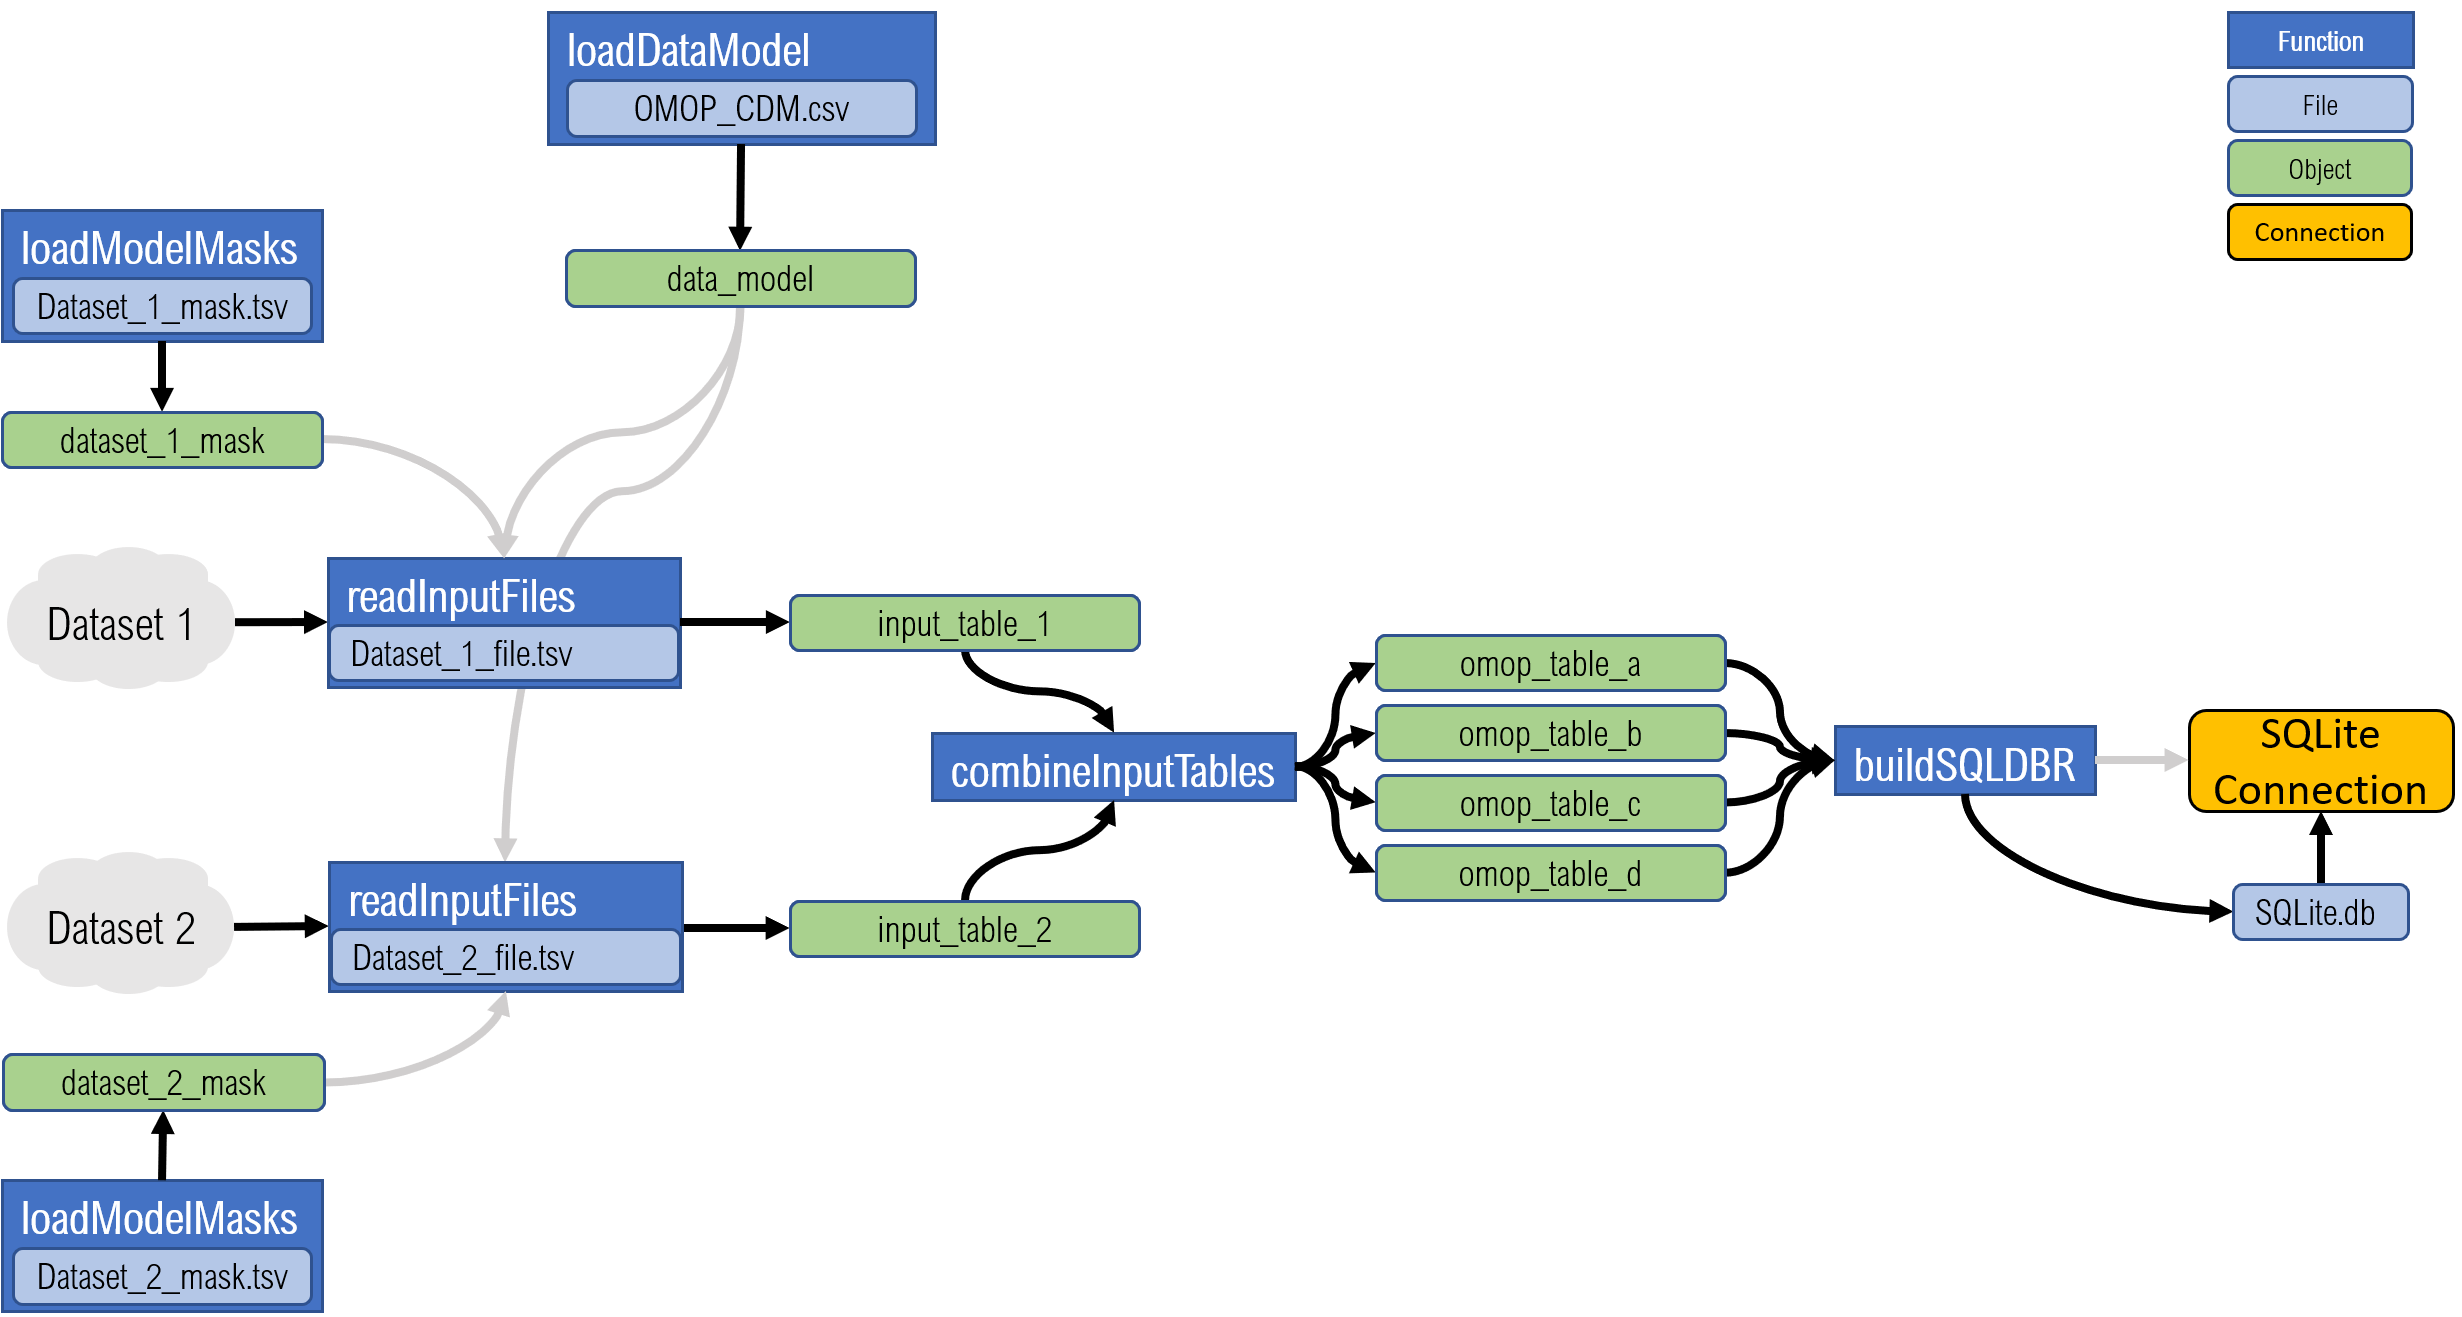
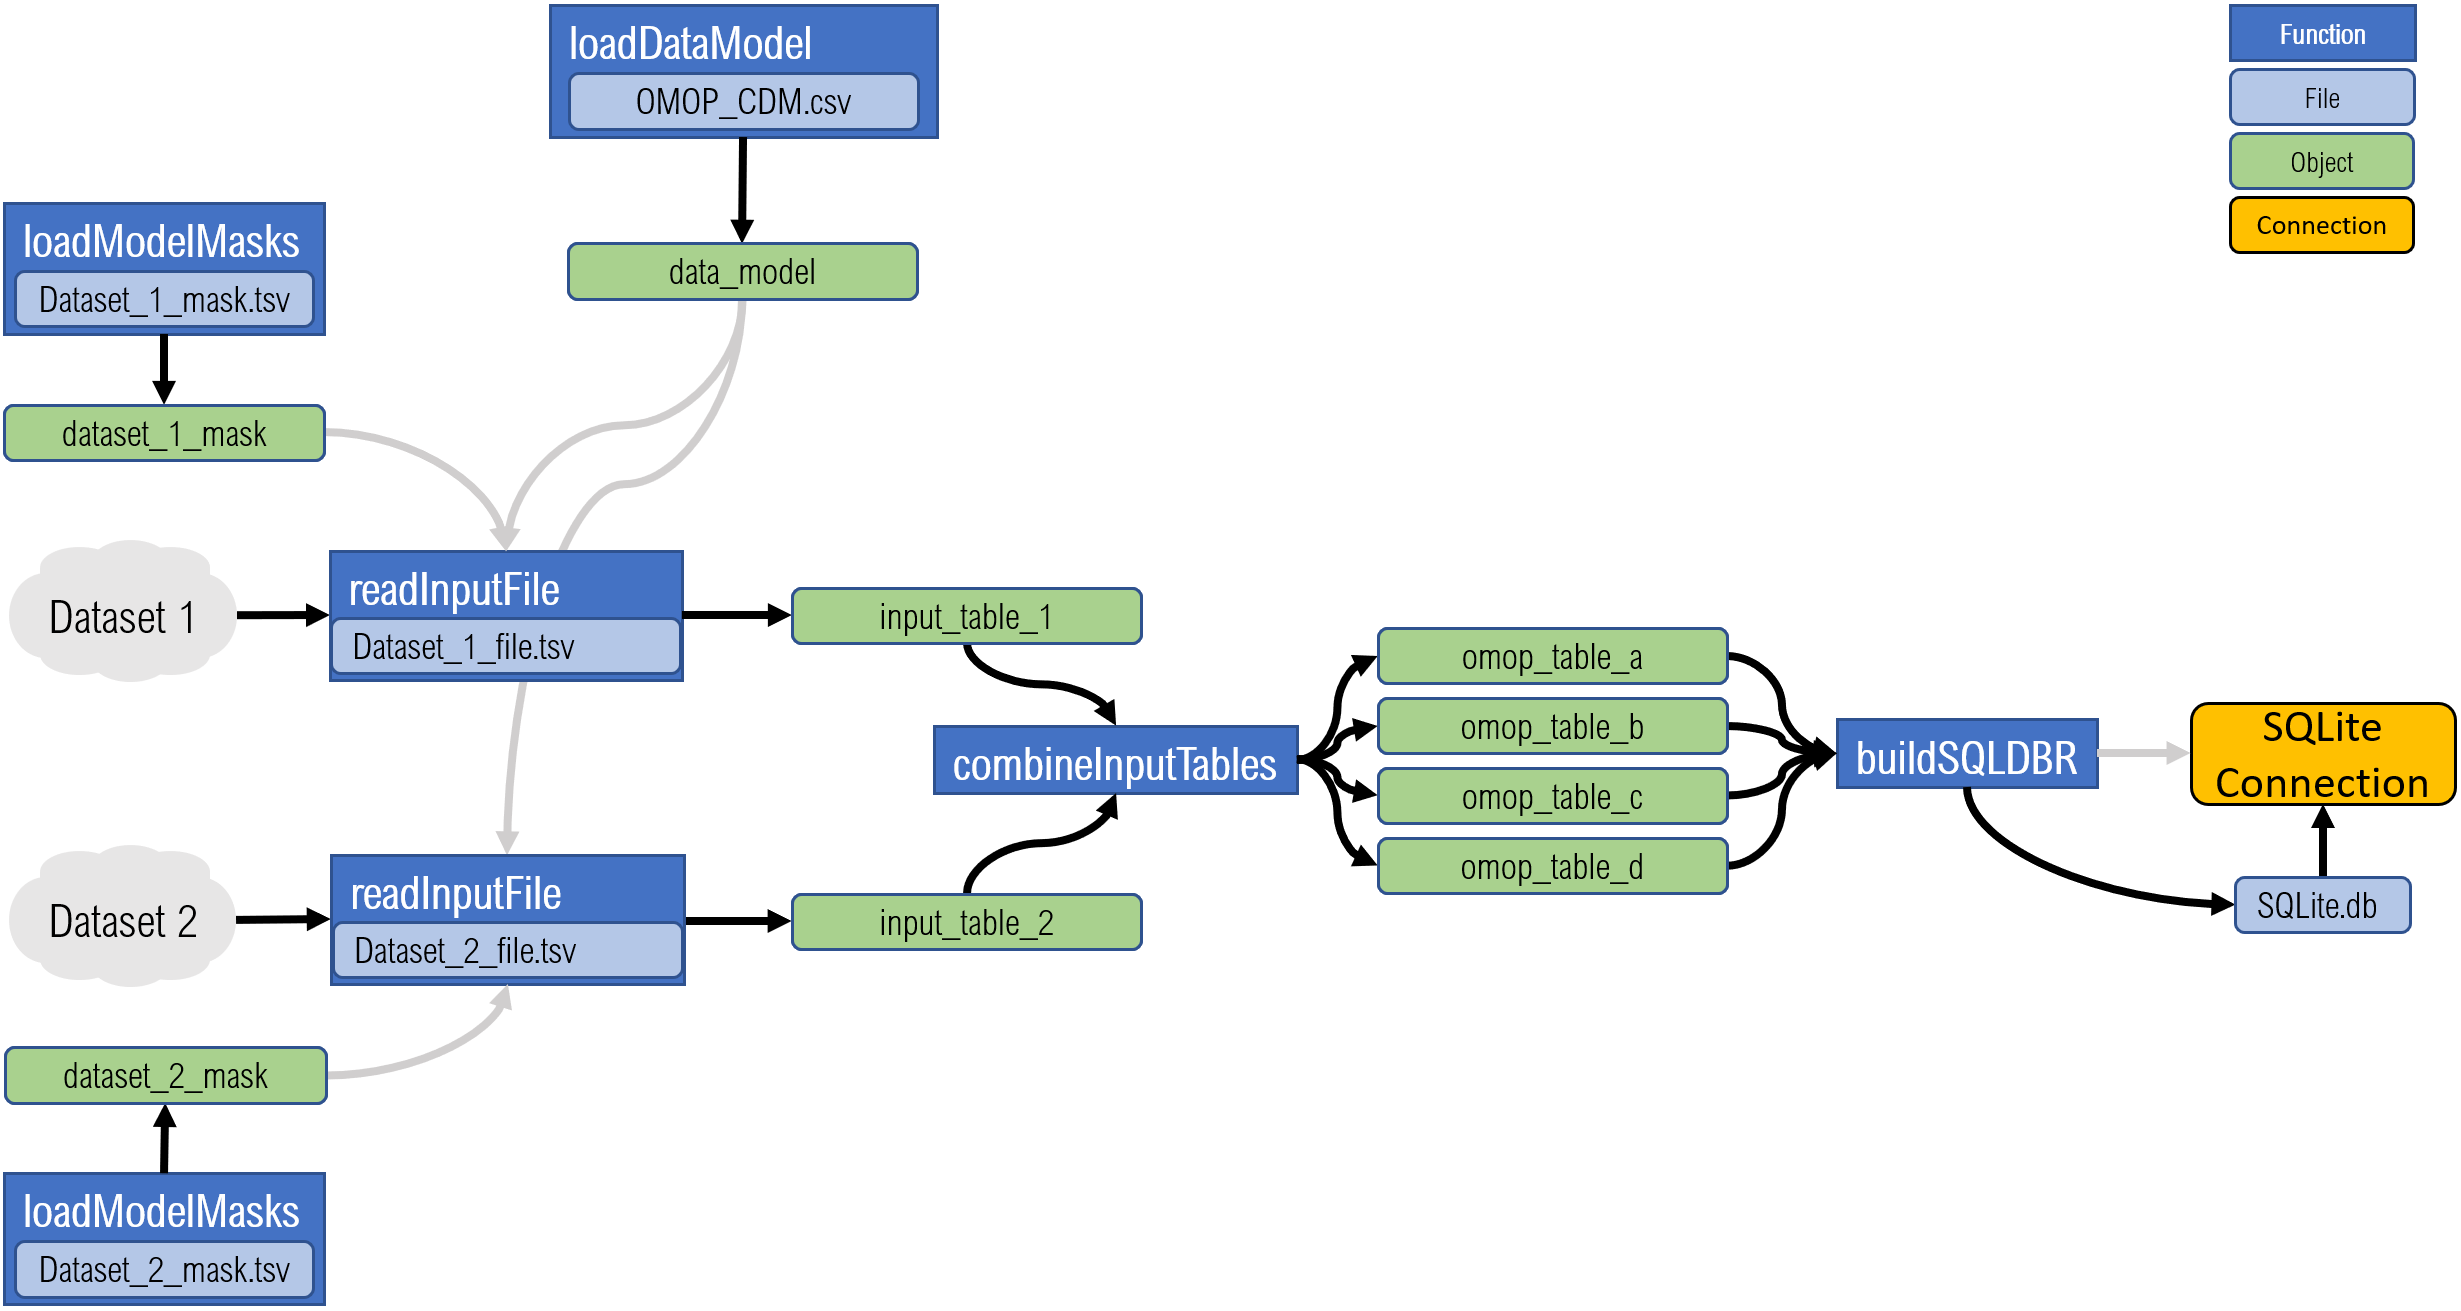
Added a few new background functions and some revisions to make the workflow more intuitive.

diff --git a/README.md b/README.md
@@ -470,19 +470,19 @@ ROMOPOmics converts this wide, unstandardized data format by using a `field_idx`
 
 ## Step 3: Translate input datasets into common data model format.
 
-Using the `readInputFiles()` function, data table inputs are translated into the destination format according to the provided `mask` (in this case `brca_clinical` and `brca_mutation`). Tables in this format are "exhaustive" in that they include all possible fields and tables in the data model, including unused ones. It is not required that every variable in the input tables are present in the mask tables. Only variables in the input tables that are mapped to the common data model format will be in the mask tables. 
+Using the `readInputFile()` function, data table inputs are translated into the destination format according to the provided `mask` (in this case `brca_clinical` and `brca_mutation`). Tables in this format are "exhaustive" in that they include all possible fields and tables in the data model, including unused ones. It is not required that every variable in the input tables are present in the mask tables. Only variables in the input tables that are mapped to the common data model format will be in the mask tables. 
 
 
 ```r
 omop_inputs <- lapply(names(tcga_files), 
-                function(x) readInputFiles(input_file = tcga_files[[x]],
+                function(x) readInputFile(input_file = tcga_files[[x]],
                                            mask_table = msks[[x]],
                                            data_model = dm))
 ```
 
 ## Step 4: Combine all input tables into SQL-friendly tables.
 
-Since tables read via `readInputFiles()` include all fields and tables from the data model, these tables can be combined regardless of input type or mask used using `combineInputTables()`. This function combines all data sets from all mask types, and filters out all OMOP tables from the data model that are unused (no entries in any of the associated fields). Tables are not "partially" used; if any field is included from that table, all fields from that table are included. The only exception to this is table indices: if a table inherits an index from an unused table, that index column is dropped.
+Since tables read via `readInputFile()` include all fields and tables from the data model, these tables can be combined regardless of input type or mask used using `combineInputTables()`. This function combines all data sets from all mask types, and filters out all OMOP tables from the data model that are unused (no entries in any of the associated fields). Tables are not "partially" used; if any field is included from that table, all fields from that table are included. The only exception to this is table indices: if a table inherits an index from an unused table, that index column is dropped.
 
 Once data has been loaded into a single comprehensive table, an index column (`<table_name>_index`) is assigned for each permutation of all data sets included in each used table, and formats the `type` of each column based on the data model's specification (`VARCHAR(50)` is changed to "character", `INTEGER` is changed to "integer", etc.). Finally, this function returns each formatted OMOP table in a named list.
 
@@ -834,33 +834,27 @@ tcga_files  <- list(brca_clinical=file.path(dirs$data,"brca_clinical.csv"),
                     brca_mutation=file.path(dirs$data,"brca_mutation.csv"))
 msks        <- list(brca_clinical=loadModelMasks(file.path(dirs$masks,"brca_clinical_mask.tsv")),
                     brca_mutation=loadModelMasks(file.path(dirs$masks,"brca_mutation_mask.tsv")))
-omop_inputs <- list(brca_clinical=readInputFiles(input_file = tcga_files$brca_clinical,
+omop_inputs <- list(brca_clinical=readInputFile(input_file = tcga_files$brca_clinical,
                                                  data_model = dm,
                                                  mask_table = msks$brca_clinical),
-                    brca_mutation=readInputFiles(input_file = tcga_files$brca_mutation,
+                    brca_mutation=readInputFile(input_file = tcga_files$brca_mutation,
                                                  data_model = dm,
                                                  mask_table = msks$brca_mutation))
 ```
 
 ## ATACSeq data
 ```
-library(ROMOPOmics)
+#Data model.
 dm_file     <- system.file("extdata","OMOP_CDM_v6_0_custom.csv",package="ROMOPOmics",mustWork = TRUE)
 dm          <- loadDataModel(master_table_file = dm_file)
 
-dirs          <- list()
-dirs$base     <- file.path(find_root(criterion = criteria$is_r_package))
-dirs$figs     <- file.path(dirs$base,"man/figures")
-dirs$demo     <- file.path(dirs$base,"demo")
-dirs$data     <- file.path(dirs$demo,"data")
-dirs$masks    <- file.path(dirs$demo,"masks")
+#Mask.
+msk_file    <- file.path(dirs$masks,"GSE60682_standard_reformat_mask.tsv")
+msks        <- loadModelMasks(msk_file)
 
-
-files  <- dir(dirs$data,full.names = TRUE,pattern = "reformat")
-names(files) <- gsub(".csv","",basename(files))
-
-msks        <- loadModelMasks(dirs$masks)
-omop_inputs <- lapply(names(files), function(x) readInputFiles(input_file=files[[x]],data_model=dm,mask_table=msks[[x]]))
+#Input file.
+in_file     <- file.path(dirs$data,"GSE60682_standard.tsv")
+omop_inputs <- readInputFile(input_file=in_file,data_model=dm,mask_table=msks,transpose_input_table = TRUE)
 db_inputs   <- combineInputTables(input_table_list = omop_inputs)
 omop_db     <- buildSQLDBR(omop_tables = db_inputs,sql_db_file = file.path(dirs$base,"GSE60682_sqlDB.sqlite"))
 dbListTables(omop_db)
